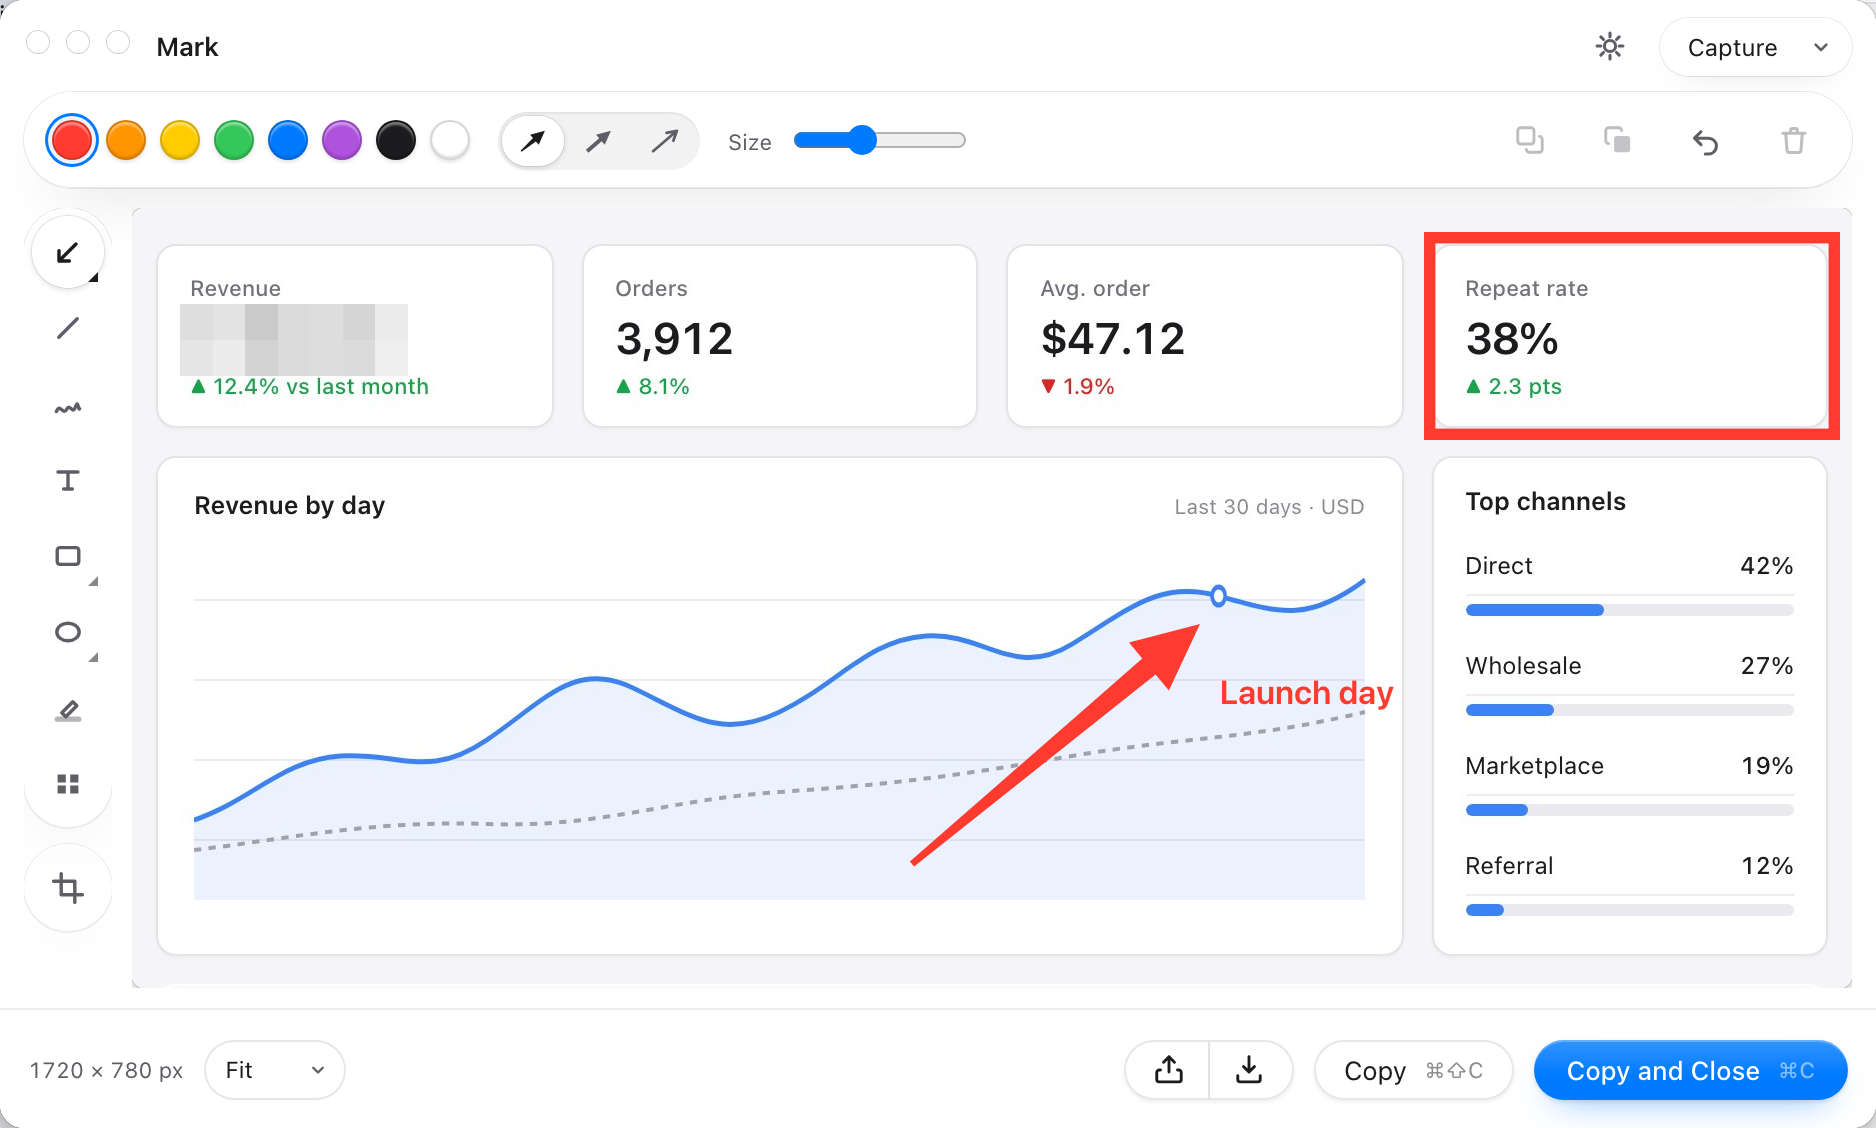
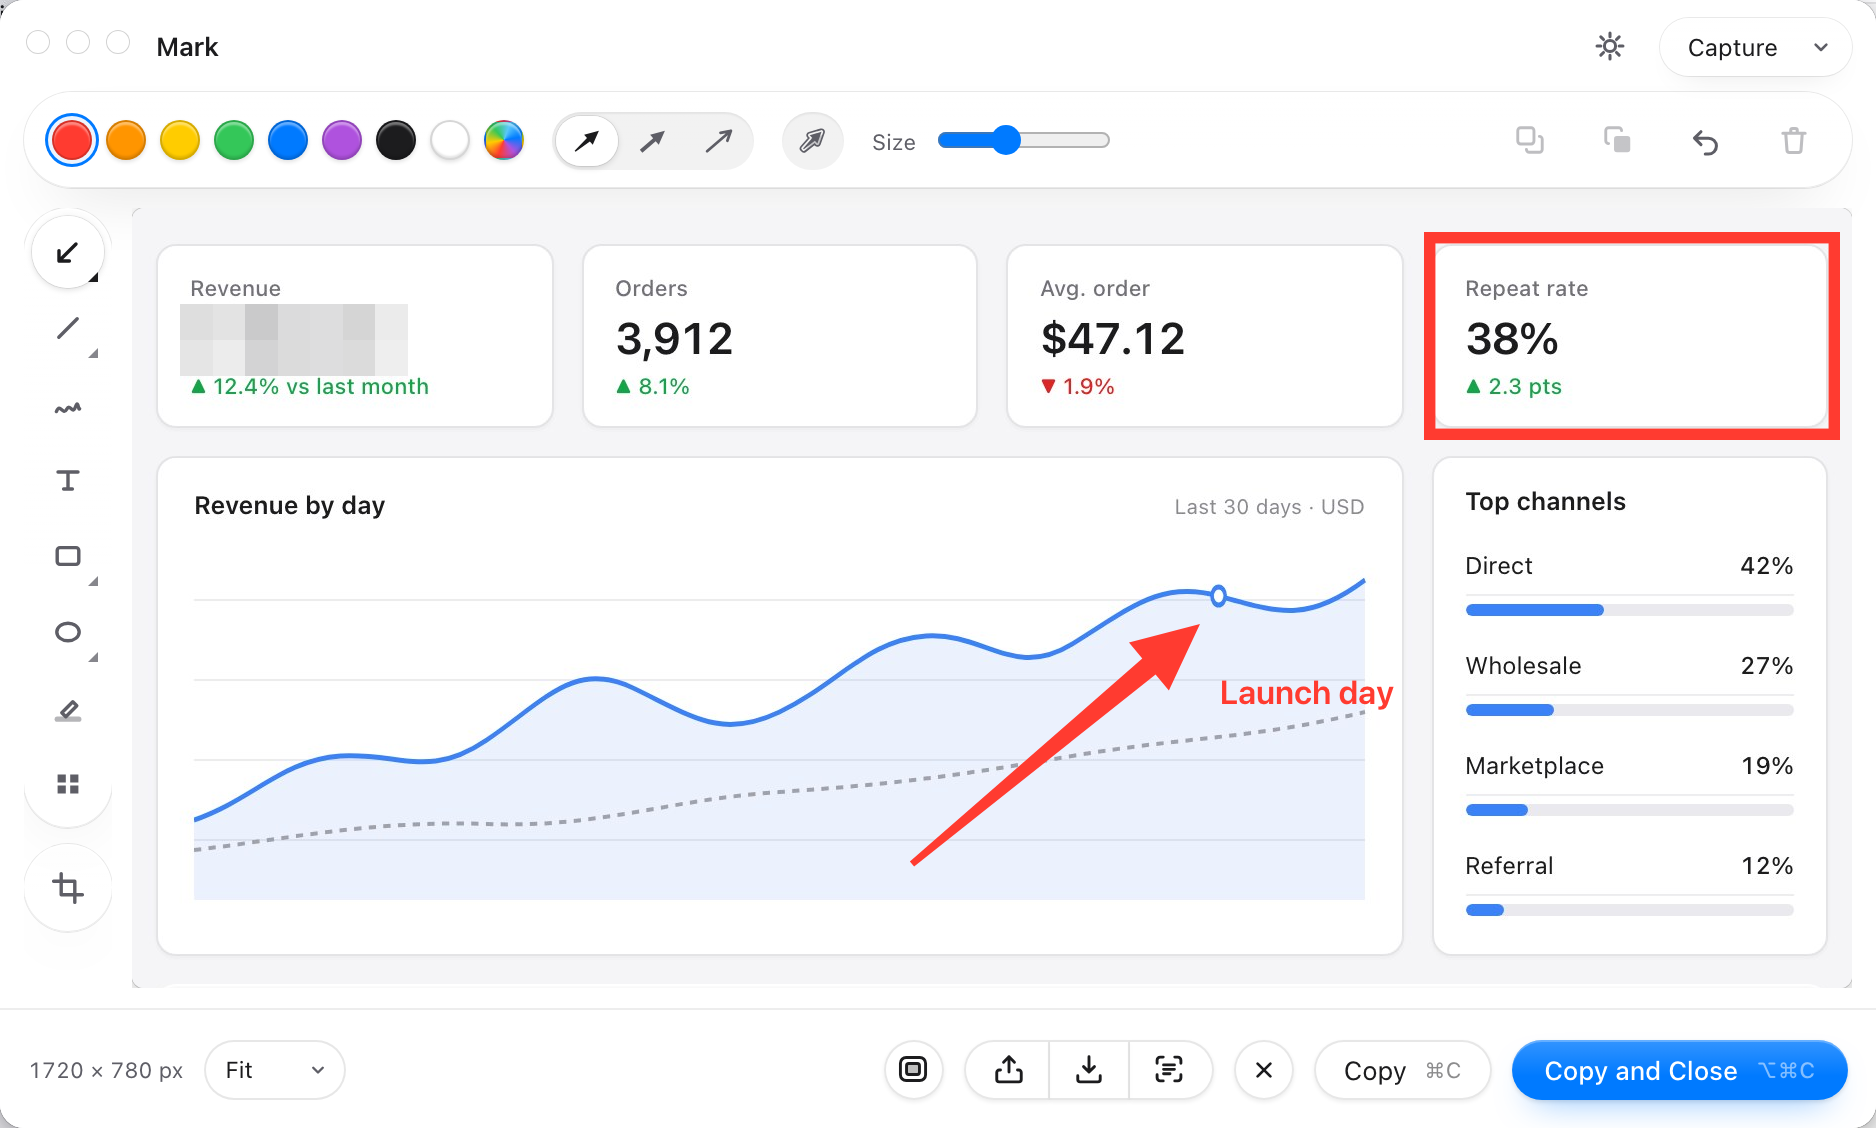
The site shows what Mark does now
The site still described Mark as of 0.4: a region and its tools. It now
tells of a window taken whole, a key for every tool, Measure, any
colour, crops held to a shape and Copy Text in the steps; and the grid of
features gains Frame, with a picture of its own, a window whole, Copy
the words and Hide what's sensitive, while Timed moves into the steps.
Nothing leaves your Mac now says that reading the words and finding what
is sensitive happen on the Mac itself; the menu bar card that Mark
updates itself. The demo's caption says what it cannot do in a browser.

Every picture is rendered again from the demo as it is today -- the
footer's new buttons, the tiles it opens on -- and Frame's is new: the
same marked-up capture on a gradient with a title bar, as Frame shows
it. The menu bar's picture went with its card.

diff --git a/site.html b/site.html
@@ -34,8 +34,8 @@
     <main id="top">
       <section class="hero">
         <h1>Say it with an arrow.</h1>
-        <p class="lede">Mark is a fast, small screenshot tool for the Mac. Press <kbd data-shortcut>⌘4</kbd>, drag across a region,
-          point at what matters, and it’s on your clipboard.</p>
+        <p class="lede">Mark is a fast, small screenshot tool for the Mac. Press <kbd data-shortcut>⌘4</kbd>, drag across a region
+          or click a window, point at what matters, and it’s on your clipboard.</p>
         <div class="actions">
           <a class="primary big" href="#download" data-download>
             <svg class="apple" viewBox="0 0 17 20" aria-hidden="true"><path d="M14.2 10.6c0-2.3 1.9-3.4 2-3.5-1.1-1.6-2.8-1.8-3.4-1.8-1.4-.1-2.8.9-3.5.9-.7 0-1.9-.8-3.1-.8C3.9 5.4 1.6 7.5 1.6 11c0 1.4.3 2.8.9 4.2.7 1.7 2.3 4.4 4 4.4.9 0 1.6-.6 2.9-.6 1.2 0 1.8.6 3 .6 1.8 0 3.2-2.4 3.9-4.1.5-1.1.7-1.6.7-1.7-.1 0-2.8-1-2.8-3.2zM11.9 3.6c.6-.8 1.1-1.9 1-3-.9 0-2.1.6-2.7 1.4-.6.7-1.1 1.8-1 2.9 1 .1 2-.5 2.7-1.3z"/></svg>
@@ -58,19 +58,21 @@
               <kbd class="cap" data-shortcut>⌘4</kbd>
               <h3>Capture</h3>
               <p>From anywhere on your Mac. Guides run the full width and height of the display while you aim, so an edge lines up
-                with something on the far side of the screen. Adjust a corner afterwards, or type the exact size.</p>
+                with something on the far side of the screen; press <kbd>Space</kbd> to take a window instead. Adjust a corner
+                afterwards, type the exact size, or arm a few seconds for a menu or a hover.</p>
             </li>
             <li>
               <kbd class="cap">drag</kbd>
               <h3>Mark it up</h3>
-              <p>Arrows, lines, a pen, text, boxes, ellipses, a highlighter, a redaction and a crop. Colour and size come from the
-                toolbar, and selecting something adopts its style, so the toolbar always says what the next edit will do.</p>
+              <p>Arrows, lines, a measure, a pen, text, boxes, ellipses, a highlighter, a redaction and a crop, each a key away —
+                <kbd>A</kbd> for an arrow, <kbd>T</kbd> for text. Any colour, by hex or the eyedropper, and selecting something
+                adopts its style, so the toolbar always says what the next edit will do.</p>
             </li>
             <li>
               <kbd class="cap">⌥⌘C</kbd>
               <h3>Copy and close</h3>
               <p>A PNG lands on the clipboard and the editor gets out of the way. <kbd>⌘S</kbd> saves a file instead;
-                <kbd>⇧⌘S</kbd> hands it to Mail, Messages or AirDrop.</p>
+                <kbd>⇧⌘S</kbd> hands it to Mail, Messages or AirDrop; <kbd>⇧⌘T</kbd> copies the words in it.</p>
             </li>
           </ol>
         </div>
@@ -89,33 +91,52 @@
               points at. The tip lands exactly where you let go.</p>
           </article>
           <article class="card">
+            <div class="visual picture"><img src="./site/frame.png" width="300" height="168" loading="lazy" alt="A capture set on a blue-violet gradient, with room around it, rounded corners, a soft shadow and a window’s title bar with its three lights." /></div>
+            <h3>Framed for showing</h3>
+            <p>Set a capture on a gradient or a solid, with padding, rounded corners, a shadow and, if you like, a title bar.
+              What the canvas shows is what’s copied, saved and shared.</p>
+          </article>
+          <article class="card">
             <div class="visual picture"><img src="./site/redact.png" width="216" height="106" loading="lazy" alt="A revenue card whose figure has been replaced by coarse grey blocks; the change beneath it still reads 12.4% vs last month." /></div>
             <h3>Redact, don’t blur</h3>
             <p>A redaction replaces the region with coarse blocks averaged from the capture. A blur can be partly undone, and
               still gives away the shape of what’s under it.</p>
           </article>
-          <article class="card">
-            <div class="visual picture menu"><img src="./site/menu.png" width="300" height="150" loading="lazy" alt="Mark’s menu-bar menu: Capture Region ⌘4, Show Editor, Settings, Quit Mark." /></div>
-            <h3>Lives in the menu bar</h3>
-            <p>No Dock icon, and no window until you want one. Open at Login keeps it ready, and the shortcut is yours to change.</p>
+          <article class="card plain">
+            <span class="glyph" data-glyph="window"></span>
+            <h3>A window, whole</h3>
+            <p>Press <kbd>Space</kbd> while you select and click a window. Mark takes all of it, even where another window covers
+              it, and leaves its shadow behind.</p>
+          </article>
+          <article class="card plain">
+            <span class="glyph" data-glyph="text"></span>
+            <h3>Copy the words</h3>
+            <p><kbd>⇧⌘T</kbd> reads the capture, as Live Text does, and copies it in reading order — a table pastes as a table.
+              Box part of it first to copy just that.</p>
+          </article>
+          <article class="card plain">
+            <span class="glyph" data-glyph="hide"></span>
+            <h3>Hide what’s sensitive</h3>
+            <p><kbd>⇧⌘R</kbd> finds email addresses, phone and card numbers, API keys and faces, and pixelates every one.
+              <kbd>⌘Z</kbd> puts them all back.</p>
           </article>
           <article class="card plain">
             <span class="glyph" data-glyph="crop"></span>
             <h3>Crop keeps your work</h3>
-            <p>Everything you drew comes along, shifted to match, so cropping never quietly discards a drawing. <kbd>⌘Z</kbd> puts
-              the whole capture back.</p>
+            <p>To any shape — free, the original’s, square, 4:3, 16:9 or a phone’s 9:16. Everything you drew comes along,
+              shifted to match, and <kbd>⌘Z</kbd> puts the whole capture back.</p>
           </article>
           <article class="card plain">
-            <span class="glyph" data-glyph="timed"></span>
-            <h3>Timed, for menus and hovers</h3>
-            <p>Arm 3, 5 or 10 seconds. The screen clears so you can open what you’re after, and the countdown runs in the menu
-              bar rather than over the shot.</p>
+            <span class="glyph" data-glyph="menu"></span>
+            <h3>Lives in the menu bar</h3>
+            <p>No Dock icon, and no window until you want one. Open at Login keeps it ready, the shortcut is yours to change, and
+              it updates itself.</p>
           </article>
           <article class="card plain">
             <span class="glyph" data-glyph="private"></span>
             <h3>Nothing leaves your Mac</h3>
-            <p>No account, no cloud, no history on disk. Recent keeps the last six captures in memory, drawings and all — an undo
-              for closing, not a library.</p>
+            <p>No account, no cloud, no history on disk. Copying the words and finding what’s sensitive happen on the Mac itself,
+              and Recent keeps the last six captures in memory only.</p>
           </article>
         </div>
       </section>
@@ -137,7 +158,8 @@
       <section class="try" id="try" aria-labelledby="try-title">
         <h2 id="try-title">Try it here.</h2>
         <p>This is Mark’s real editor, selection overlay and settings, running in your browser against a picture of a desktop.
-          Click the icon in its menu bar, or click into the picture and press <kbd data-shortcut>⌘4</kbd>.</p>
+          Click the icon in its menu bar, or click into the picture and press <kbd data-shortcut>⌘4</kbd> — then
+          <kbd>Space</kbd> to take its window.</p>
         <div class="demo-frame">
           <iframe class="demo" src="./demo.html?embed" title="Mark, running in your browser" loading="lazy"></iframe>
         </div>

diff --git a/src/site/page.ts b/src/site/page.ts
@@ -50,6 +50,14 @@ const GLYPHS: Record<string, string> = {
   crop: `<path d="M6.6 2.8v10.6h10.6M2.8 6.6h10.6v10.6" ${STROKE}/>`,
   timed: `<circle cx="10" cy="11.4" r="5.4" ${STROKE}/><path d="M10 8.4v3l2.1 1.3M8.1 3.4h3.8M10 3.4v2.6" ${STROKE}/>`,
   private: `<rect x="3.2" y="4.5" width="13.6" height="9.6" rx="1.8" ${STROKE}/><path d="M7.6 16.6h4.8M10 8.2v2.6" ${STROKE}/>`,
+  // The capture menu's window, Copy Text's viewfinder, Hide Sensitive's eye, a menu bar with Mark in it.
+  window: `<rect x="3.2" y="4.4" width="13.6" height="11.2" rx="1.8" ${STROKE}/><path d="M3.2 7.8h13.6" ${STROKE}/>`
+    + `<circle cx="5.6" cy="6.1" r=".7" fill="currentColor"/><circle cx="7.6" cy="6.1" r=".7" fill="currentColor"/>`,
+  text: `<path d="M3 6.6V4.8A1.8 1.8 0 0 1 4.8 3h1.8M13.4 3h1.8A1.8 1.8 0 0 1 17 4.8v1.8M17 13.4v1.8a1.8 1.8 0 0 1-1.8 1.8h-1.8M6.6 17H4.8A1.8 1.8 0 0 1 3 15.2v-1.8" ${STROKE}/>`
+    + `<path d="M6.8 7.6h6.4M6.8 10.2h6.4M6.8 12.8h3.8" ${STROKE}/>`,
+  hide: `<path d="M2.8 10s2.6-4.9 7.2-4.9 7.2 4.9 7.2 4.9-2.6 4.9-7.2 4.9S2.8 10 2.8 10z" ${STROKE}/><circle cx="10" cy="10" r="2.1" ${STROKE}/><path d="M4 16 16 4" ${STROKE}/>`,
+  menu: `<rect x="2.8" y="4" width="14.4" height="12" rx="1.8" ${STROKE}/><path d="M2.8 7.4h14.4" ${STROKE}/>`
+    + `<path d="M12.4 5.7h2.6" ${STROKE}/><path d="M6.2 10.6h5.2M6.2 13.2h3.4" ${STROKE}/>`,
 };
 for (const el of all<HTMLElement>('[data-glyph]')) {
   el.innerHTML = `<svg viewBox="0 0 20 20" aria-hidden="true">${GLYPHS[el.dataset.glyph!] ?? ''}</svg>`;

diff --git a/src/demo/page.ts b/src/demo/page.ts
@@ -88,8 +88,8 @@ document.body.innerHTML = `
     </aside>
   </div></div>
   <p class="caption">This is Mark's real editor, selection overlay and settings, running in your browser against a stand-in for the Mac.
-    Capturing takes a region of this picture of a desktop; Copy puts a real PNG on your clipboard. Liquid Glass, capturing your actual
-    screen, and opening at login need the Mac app.</p>`;
+    Capturing takes a region or the window of this picture of a desktop; Copy puts a real PNG on your clipboard. Liquid Glass,
+    capturing your actual screen, reading the words in it, and opening at login need the Mac app.</p>`;
 
 const $ = <T extends Element>(selector: string) => document.querySelector<T>(selector)!;
 const stage = $<HTMLDivElement>('.stage');
